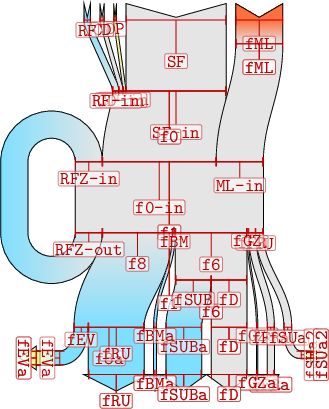
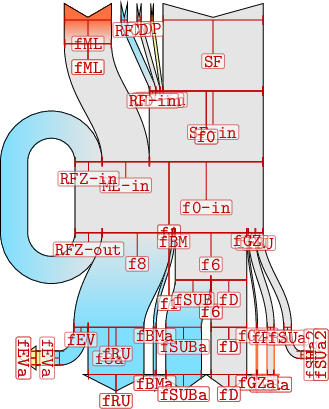
Move mass loss to top left. Align right edge.

diff --git a/sankey.tex b/sankey.tex
@@ -110,15 +110,15 @@
     \sankeydubins[minimum radius=3mm,water-to-ice]{RF}{RF-in}
 
     \ifthenelse{\Q{MG} > \Q{ML}}
-    {
+    { % mass gain
       \sankeynode{name=f1, quantity=\Q{RFZ}+\qq{f0},
-        at={[yshift=-15mm,xshift=-3mm]f0.right}, anchor=right,
+        at={[yshift=-15mm]f0.left}, anchor=left,
         forked={\qq{f0}/f0-in, \Q{RFZ}/RFZ-in}}
     }
-    {
+    { % mass loss
       \sankeynode{name=f1, quantity=\Q{RFZ}+\qq{f0}+\Q{ML},
-        at={[yshift=-15mm]f0.center}, anchor=center,
-        forked={\Q{ML}/ML-in, \qq{f0}/f0-in, \Q{RFZ}/RFZ-in}}
+        at={[yshift=-15mm]f0.left}, anchor=left,
+        forked={\qq{f0}/f0-in, \Q{ML}/ML-in, \Q{RFZ}/RFZ-in}}
     }
     
     \sankeyoutin{f0}{f0-in}
@@ -184,7 +184,8 @@
     \ifthenelse{\Q{MG} < \Q{ML}}
       {
         %% mass loss
-        \sankeynode{name=fML, quantity=\Q{ML}, at={[xshift=\xoff,yshift=0mm]SF.left}, anchor=right}%, angle=-145}
+        \sankeynode{name=fML, quantity=\Q{ML},
+          at={[xshift=-\xoff]RF.right}, anchor=left} %, angle=-45}
         \sankeystart[red]{fML}
         \sankeyadvance[red-to-ice]{fML}{5mm}
         \sankeyoutin{fML}{ML-in}
